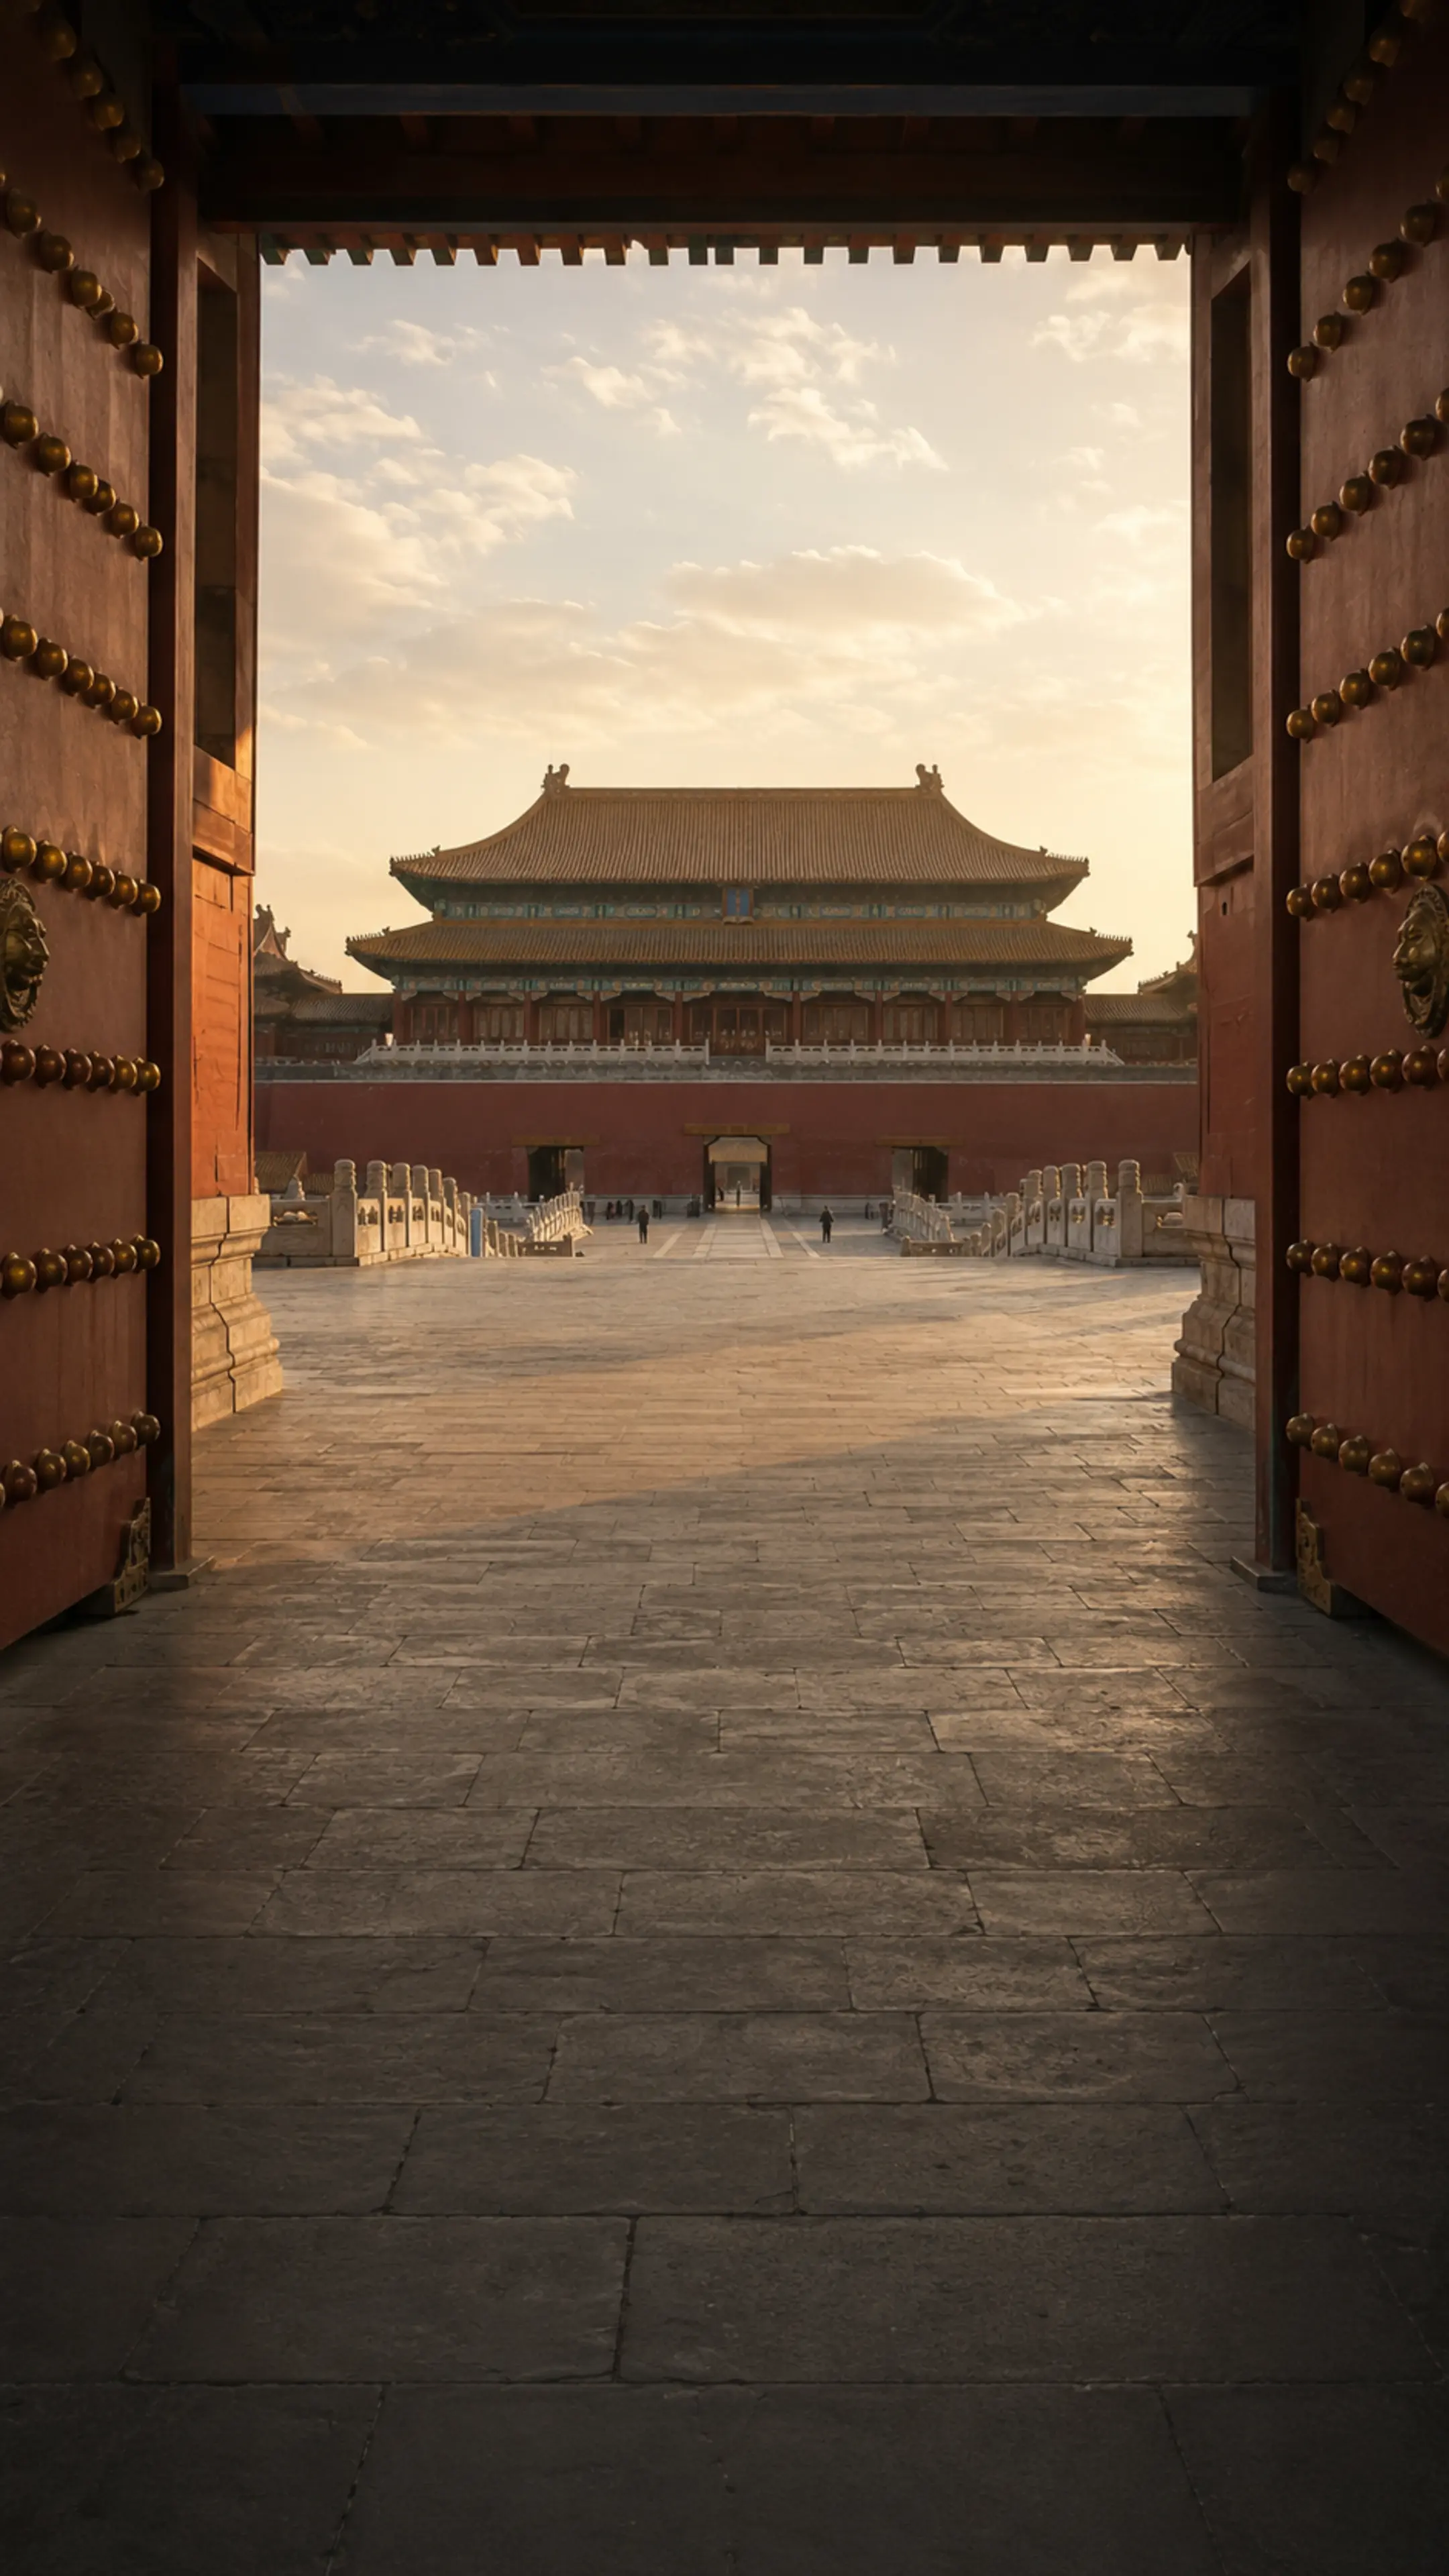
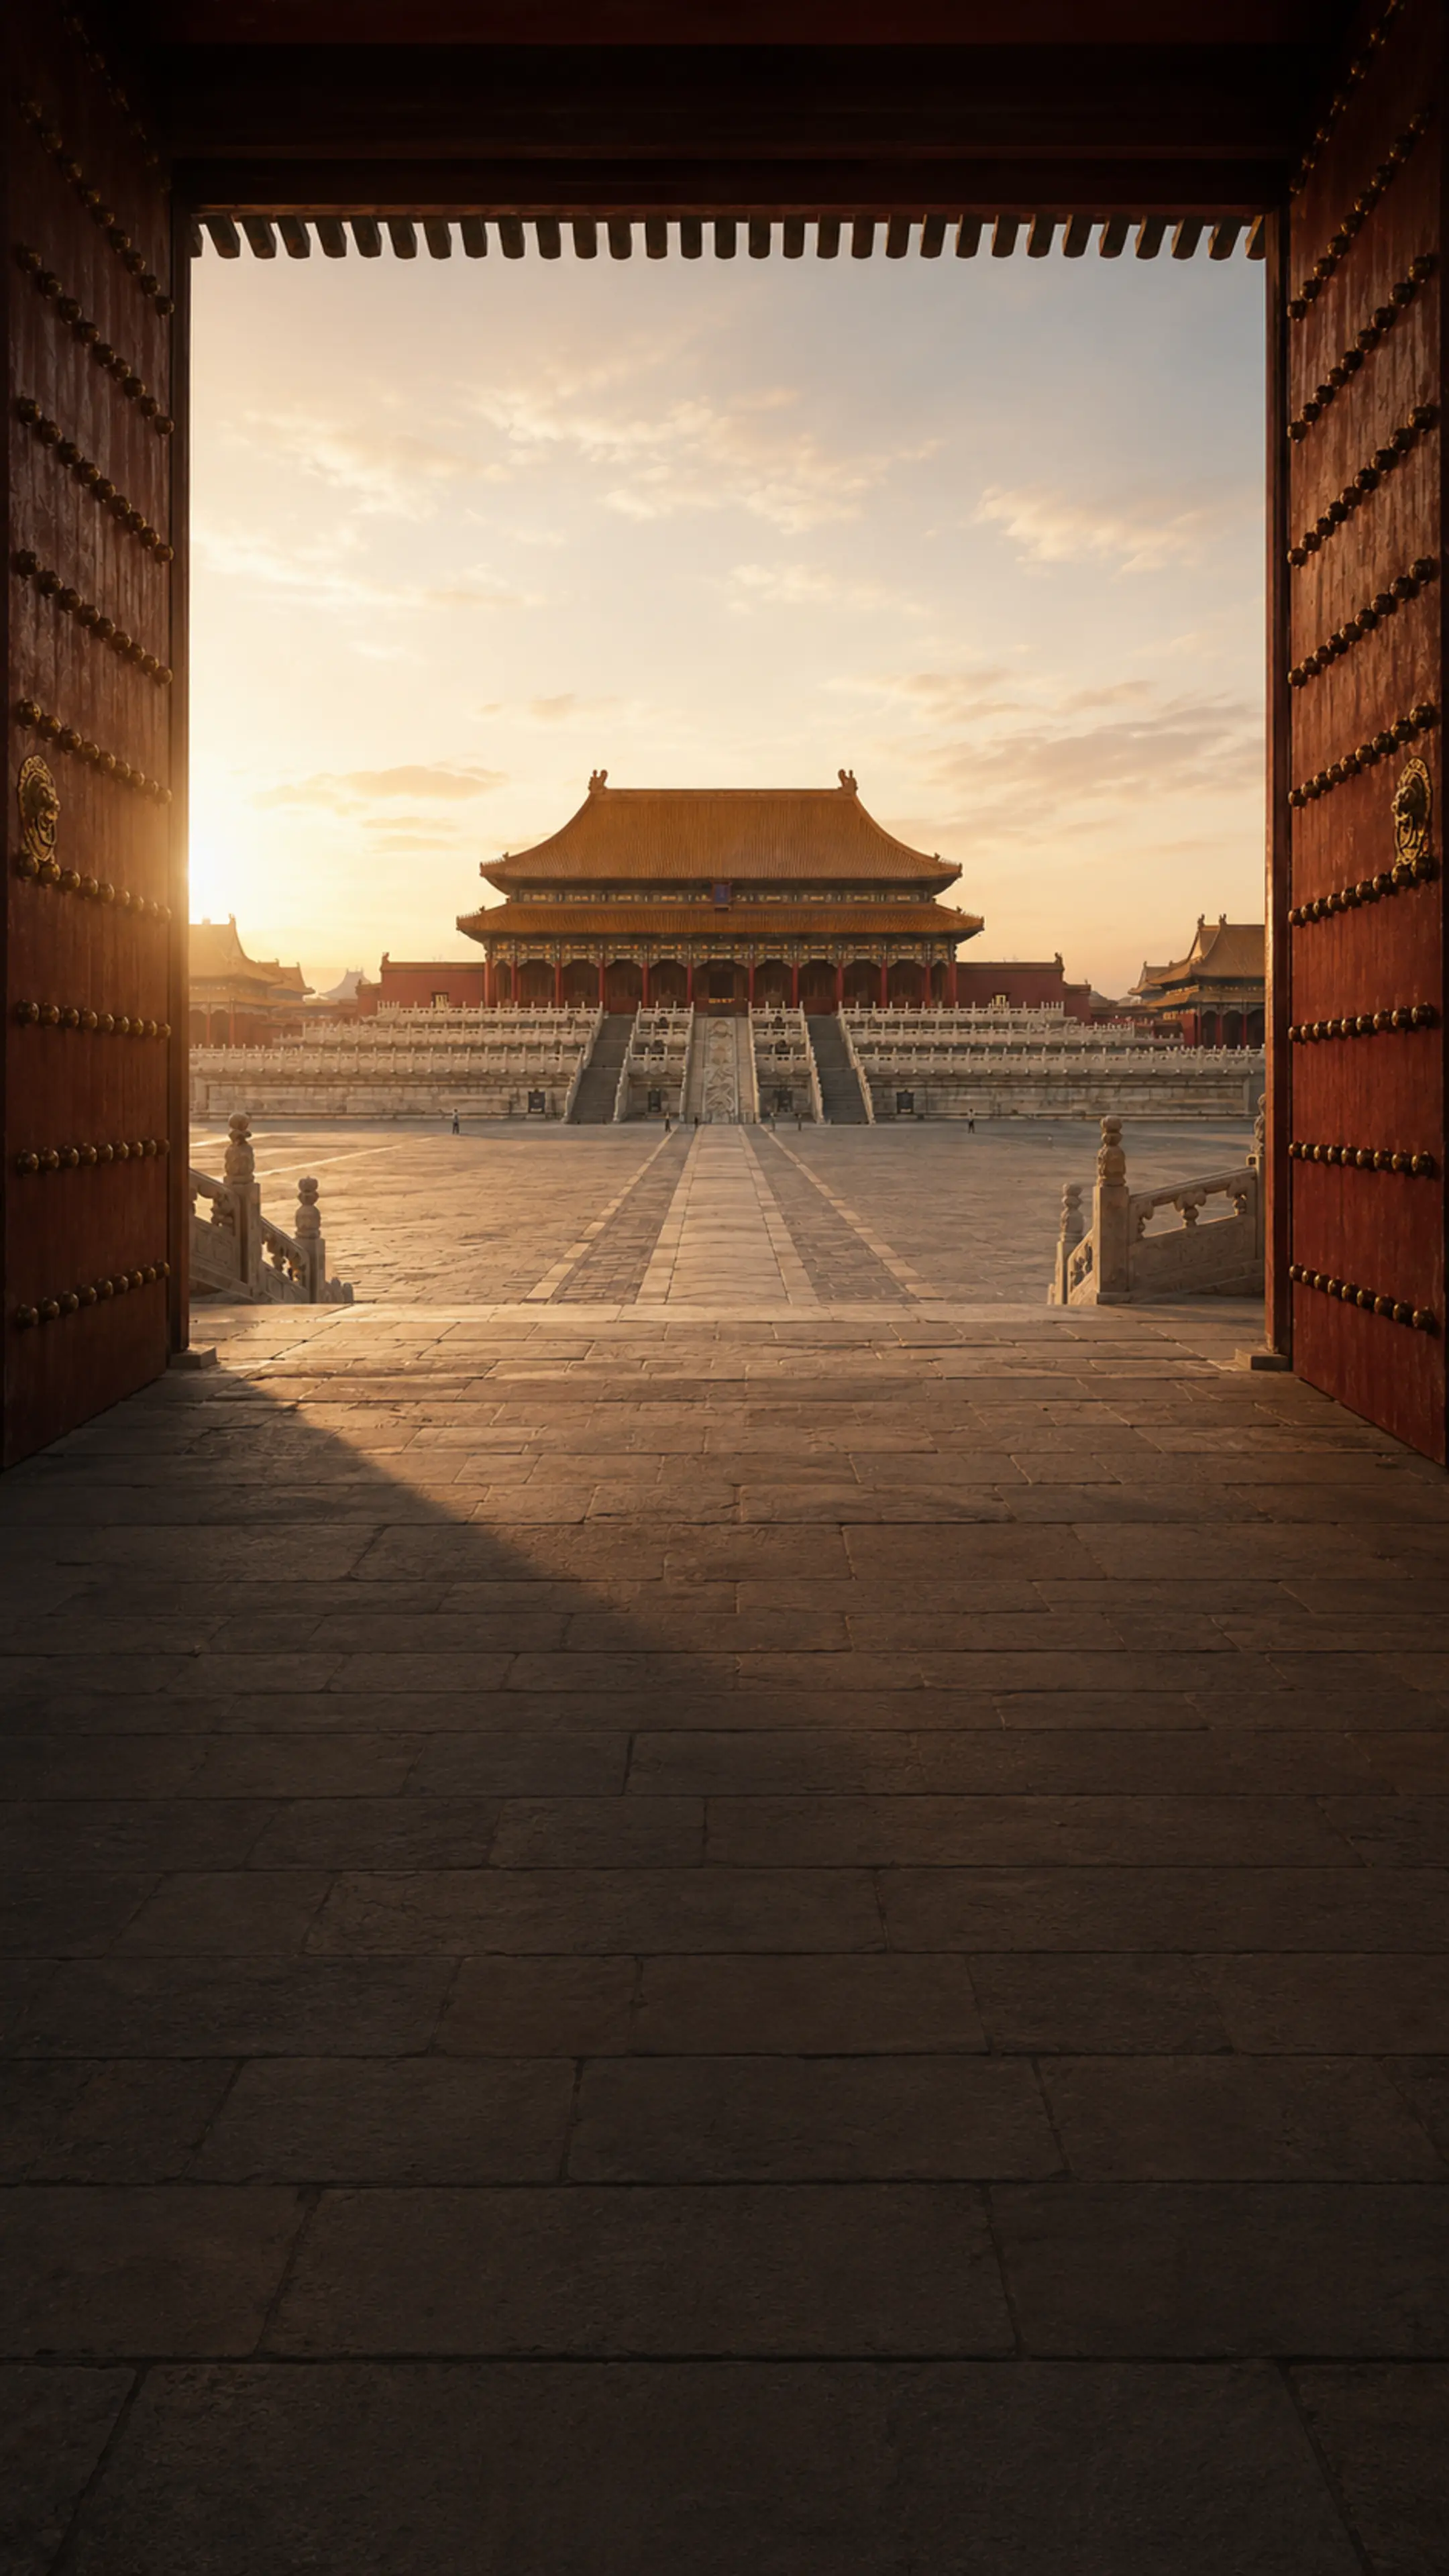
feat: recompose FC01-A portrait as native 9:16

diff --git a/app/lib/data/beijing_city_standard.dart b/app/lib/data/beijing_city_standard.dart
@@ -196,7 +196,7 @@ const forbiddenCityJourney01Scenes = <JourneySceneDefinition>[
         'no readable signage'
       ],
       promptVersion: 'fc01-v1',
-      assetVersion: '2026-09-02-v1'),
+      assetVersion: '2026-09-02-v2'),
   JourneySceneDefinition(
       sceneId: 'FC01-B',
       cityId: beijingCityId,
